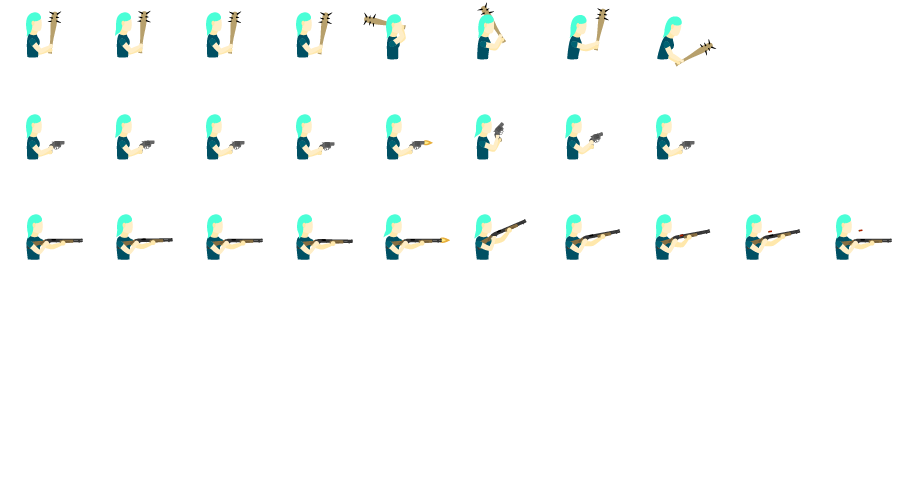
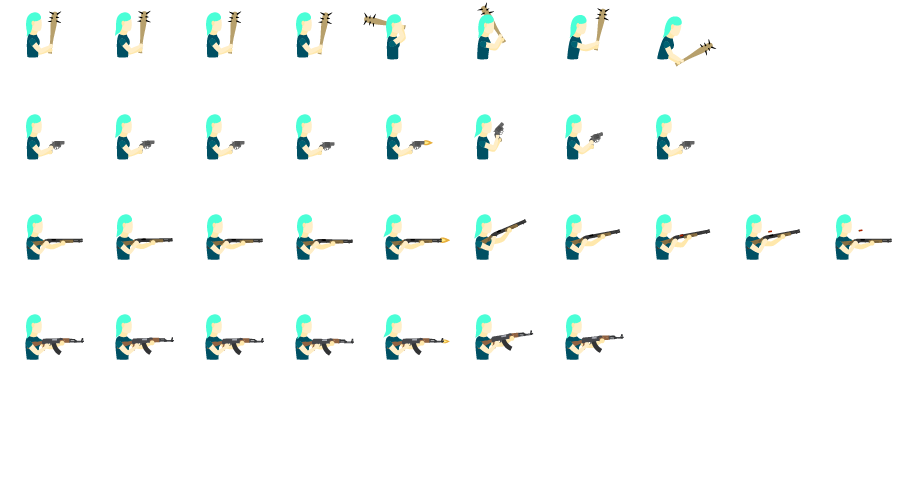
Adds assault rifle animation and global weapon cooldowns

diff --git a/src/objects/player.ts b/src/objects/player.ts
@@ -6,6 +6,7 @@ import { Level } from '../level';
 import { Polar } from '../math/polar';
 import { Collider } from '../math/collider';
 import { LagFactor } from '../math/lag-factor';
+import { Counter } from '../math/counter';
 import { Weapon } from '../weapons/weapon';
 import { BaseballBat } from '../weapons/baseball-bat';
 import { Pistol } from '../weapons/pistol';
@@ -61,6 +62,7 @@ export class Player extends GameObject {
   public score: number = 0;
   public weapons: Weapon[];
   public equippedWeapon: Weapon;
+  public weaponCooldownCounter: Counter = new Counter();
 
   public get width(): number {
     return 25;
@@ -167,8 +169,8 @@ export class Player extends GameObject {
           ticksPerFrame: 10,
         },
         'assault-attack': {
-          frames: [34, 35, 36, 37],
-          ticksPerFrame: 1,
+          frames: [34, 35, 36],
+          ticksPerFrame: 5,
         },
         'mine-idle': {
           frames: [40, 41, 42, 43],
@@ -282,11 +284,28 @@ export class Player extends GameObject {
       this.equippedWeapon = this._baseballBat;
       this._spriteTop.setDefault(`${this.equippedWeapon.type()}-idle`);
     }
-    // Try to fire the equipped weapon, and play the appropriate attack
-    // animation if we actually fired
-    if (this.equippedWeapon.maybeFire(this._game)) {
-      this._spriteTop.stopAnim();
-      this._spriteTop.playAnimOnce(`${this.equippedWeapon.type()}-attack`);
+    // If we meet certain conditions, fire the weapon. The weapon cooldown must
+    // be complete and the equipped weapon must have ammo, and either the
+    // fire key must have just been pressed or it must be held down and the
+    // weapon must be fully automatic
+    this.weaponCooldownCounter.next();
+    if (this.weaponCooldownCounter.done() &&
+        this.equippedWeapon.ammo > 0) {
+      if (this._game.keyState.isPressed(KeyState.SPACEBAR) ||
+          (this._game.keyState.isDown(KeyState.SPACEBAR) &&
+           this.equippedWeapon.isFullAuto())) {
+        // Decrease weapon ammo
+        this.equippedWeapon.ammo--;
+        // Make the player wait for the weapon-specific cooldown before firing
+        // again
+        this.weaponCooldownCounter.max = this.equippedWeapon.cooldown();
+        this.weaponCooldownCounter.reset();
+        // Add bullets to the scene
+        this.equippedWeapon.fire(this._game);
+        // Play the firing animation
+        this._spriteTop.stopAnim();
+        this._spriteTop.playAnimOnce(`${this.equippedWeapon.type()}-attack`);
+      }
     }
     // Offset the sprite top to match the sprite bottom
     this._spriteTop.y = this._spriteBottom.getTopOffset();

diff --git a/src/weapons/weapon.ts b/src/weapons/weapon.ts
@@ -1,4 +1,6 @@
 import { GameInstance } from '../game-instance';
+import { KeyState } from '../input/keystate';
+import { Counter } from '../math/counter';
 
 export abstract class Weapon {
   public ammo: number;
@@ -7,12 +9,27 @@ export abstract class Weapon {
     this.ammo = ammo;
   }
 
+  /**
+   * Returns a string name of this weapon, like 'shotgun'.
+   */
   public abstract type(): string;
 
   /**
-   * Maybe fires (or swings in the case of the baseball bat). Returns true if
-   * it fired. It is the job of this function to handle cooldowns or handle
-   * adding any necessary game objects (like bullets).
+   * Returns the cooldown between shots of this weapon, used by the player to
+   * tell if we can fire.
    */
-  public abstract maybeFire(game: GameInstance): boolean;
+  public abstract cooldown(): number;
+
+  /**
+   * By default weapons are not fully automatic, you have to hit the fire key
+   * each time you want to shoot again. Can be overridden for automatic weapons.
+   */
+  public isFullAuto(): boolean { return false; }
+
+  /**
+   * Fires the weapon (or swings in the case of the baseball bat). It is the
+   * job of this function to handle adding any necessary game objects (like
+   * bullets).
+   */
+  public abstract fire(game: GameInstance): void;
 }

diff --git a/src/weapons/shotgun.ts b/src/weapons/shotgun.ts
@@ -6,22 +6,19 @@ import { KeyState } from '../input/keystate';
 export class Shotgun extends Weapon {
   public type(): string { return 'shotgun'; }
 
-  public maybeFire(game: GameInstance): boolean {
-    if (this.ammo > 0 && game.keyState.isPressed(KeyState.SPACEBAR)) {
-      this.ammo--;
-      let bullets = [new Bullet(game), new Bullet(game), new Bullet(game)];
-      const rVel = 1;
-      const offsetR = 11;
-      const offsetTheta = (game.player.facingLeft ? -20 : 20) / game.player.pos.r;
-      bullets[0].vel.r = rVel;
-      bullets[1].vel.r = -rVel;
-      bullets.forEach(bullet => {
-        bullet.pos.r += offsetR;
-        bullet.pos.theta += offsetTheta;
-        game.addGameObject(bullet);
-      });
-      return true;
-    }
-    return false;
+  public cooldown(): number { return 30; }
+
+  public fire(game: GameInstance): void {
+    let bullets = [new Bullet(game), new Bullet(game), new Bullet(game)];
+    const rVel = 1;
+    const offsetR = 11;
+    const offsetTheta = (game.player.facingLeft ? -20 : 20) / game.player.pos.r;
+    bullets[0].vel.r = rVel;
+    bullets[1].vel.r = -rVel;
+    bullets.forEach(bullet => {
+      bullet.pos.r += offsetR;
+      bullet.pos.theta += offsetTheta;
+      game.addGameObject(bullet);
+    });
   }
 }

diff --git a/src/weapons/assault-rifle.ts b/src/weapons/assault-rifle.ts
@@ -5,22 +5,18 @@ import { KeyState } from '../input/keystate';
 import { Counter } from '../math/counter';
 
 export class AssaultRifle extends Weapon {
-  public _cooldownCounter: Counter = new Counter(5);
-
   public type(): string { return 'assault'; }
 
-  public maybeFire(game: GameInstance): boolean {
-    if (this.ammo > 0 &&
-        (game.keyState.isPressed(KeyState.SPACEBAR) ||
-         (game.keyState.isDown(KeyState.SPACEBAR) &&
-          this._cooldownCounter.done()))) {
-      this.ammo--;
-      this._cooldownCounter.reset();
-      game.addGameObject(new Bullet(game));
-      return true;
-    } else {
-      this._cooldownCounter.next();
-      return false;
-    }
+  public cooldown(): number { return 10; }
+
+  public isFullAuto(): boolean { return true; }
+
+  public fire(game: GameInstance): void {
+    let bullet = new Bullet(game);
+    const offsetR = 11;
+    const offsetTheta = (game.player.facingLeft ? -1 : 1) * 20 / bullet.pos.r;
+    bullet.pos.r += offsetR;
+    bullet.pos.theta += offsetTheta;
+    game.addGameObject(bullet);
   }
 }

diff --git a/src/weapons/pistol.ts b/src/weapons/pistol.ts
@@ -6,17 +6,14 @@ import { KeyState } from '../input/keystate';
 export class Pistol extends Weapon {
   public type(): string { return 'pistol'; }
 
-  public maybeFire(game: GameInstance): boolean {
-    if (this.ammo > 0 && game.keyState.isPressed(KeyState.SPACEBAR)) {
-      this.ammo--;
-      const offsetR = 9;
-      const offsetTheta = (game.player.facingLeft ? -20 : 20) / game.player.pos.r;
-      let bullet = new Bullet(game);
-      bullet.pos.r += offsetR;
-      bullet.pos.theta += offsetTheta;
-      game.addGameObject(bullet);
-      return true;
-    }
-    return false;
+  public cooldown(): number { return 15; }
+
+  public fire(game: GameInstance): void {
+    const offsetR = 9;
+    const offsetTheta = (game.player.facingLeft ? -20 : 20) / game.player.pos.r;
+    let bullet = new Bullet(game);
+    bullet.pos.r += offsetR;
+    bullet.pos.theta += offsetTheta;
+    game.addGameObject(bullet);
   }
 }

diff --git a/src/weapons/proximity-mine.ts b/src/weapons/proximity-mine.ts
@@ -131,12 +131,9 @@ class ProximityMineInstance extends Bullet {
 export class ProximityMine extends Weapon {
   public type(): string { return 'mine'; }
 
-  public maybeFire(game: GameInstance): boolean {
-    if (this.ammo > 0 && game.keyState.isPressed(KeyState.SPACEBAR)) {
-      game.addGameObject(new ProximityMineInstance(game));
-      this.ammo--;
-      return true;
-    }
-    return false;
+  public cooldown(): number { return 10; }
+
+  public fire(game: GameInstance): void {
+    game.addGameObject(new ProximityMineInstance(game));
   }
 }

diff --git a/src/weapons/baseball-bat.ts b/src/weapons/baseball-bat.ts
@@ -67,11 +67,9 @@ export class BaseballBat extends Weapon {
 
   public type(): string { return 'baseball-bat'; }
 
-  public maybeFire(game: GameInstance): boolean {
-    if (game.keyState.isPressed(KeyState.SPACEBAR)) {
-      game.addGameObject(new BaseballBatBullet(game));
-      return true;
-    }
-    return false;
+  public cooldown(): number { return 15; }
+
+  public fire(game: GameInstance): void {
+    game.addGameObject(new BaseballBatBullet(game));
   }
 }

diff --git a/src/math/counter.ts b/src/math/counter.ts
@@ -11,7 +11,9 @@ export class Counter {
   public count: number;
   public useLag: boolean;
 
-  public constructor(max: number, step: number = 1, useLag: boolean = true) {
+  public constructor(max: number = 0,
+                     step: number = 1,
+                     useLag: boolean = true) {
     this.max = max;
     this.step = step;
     this.count = 0;
